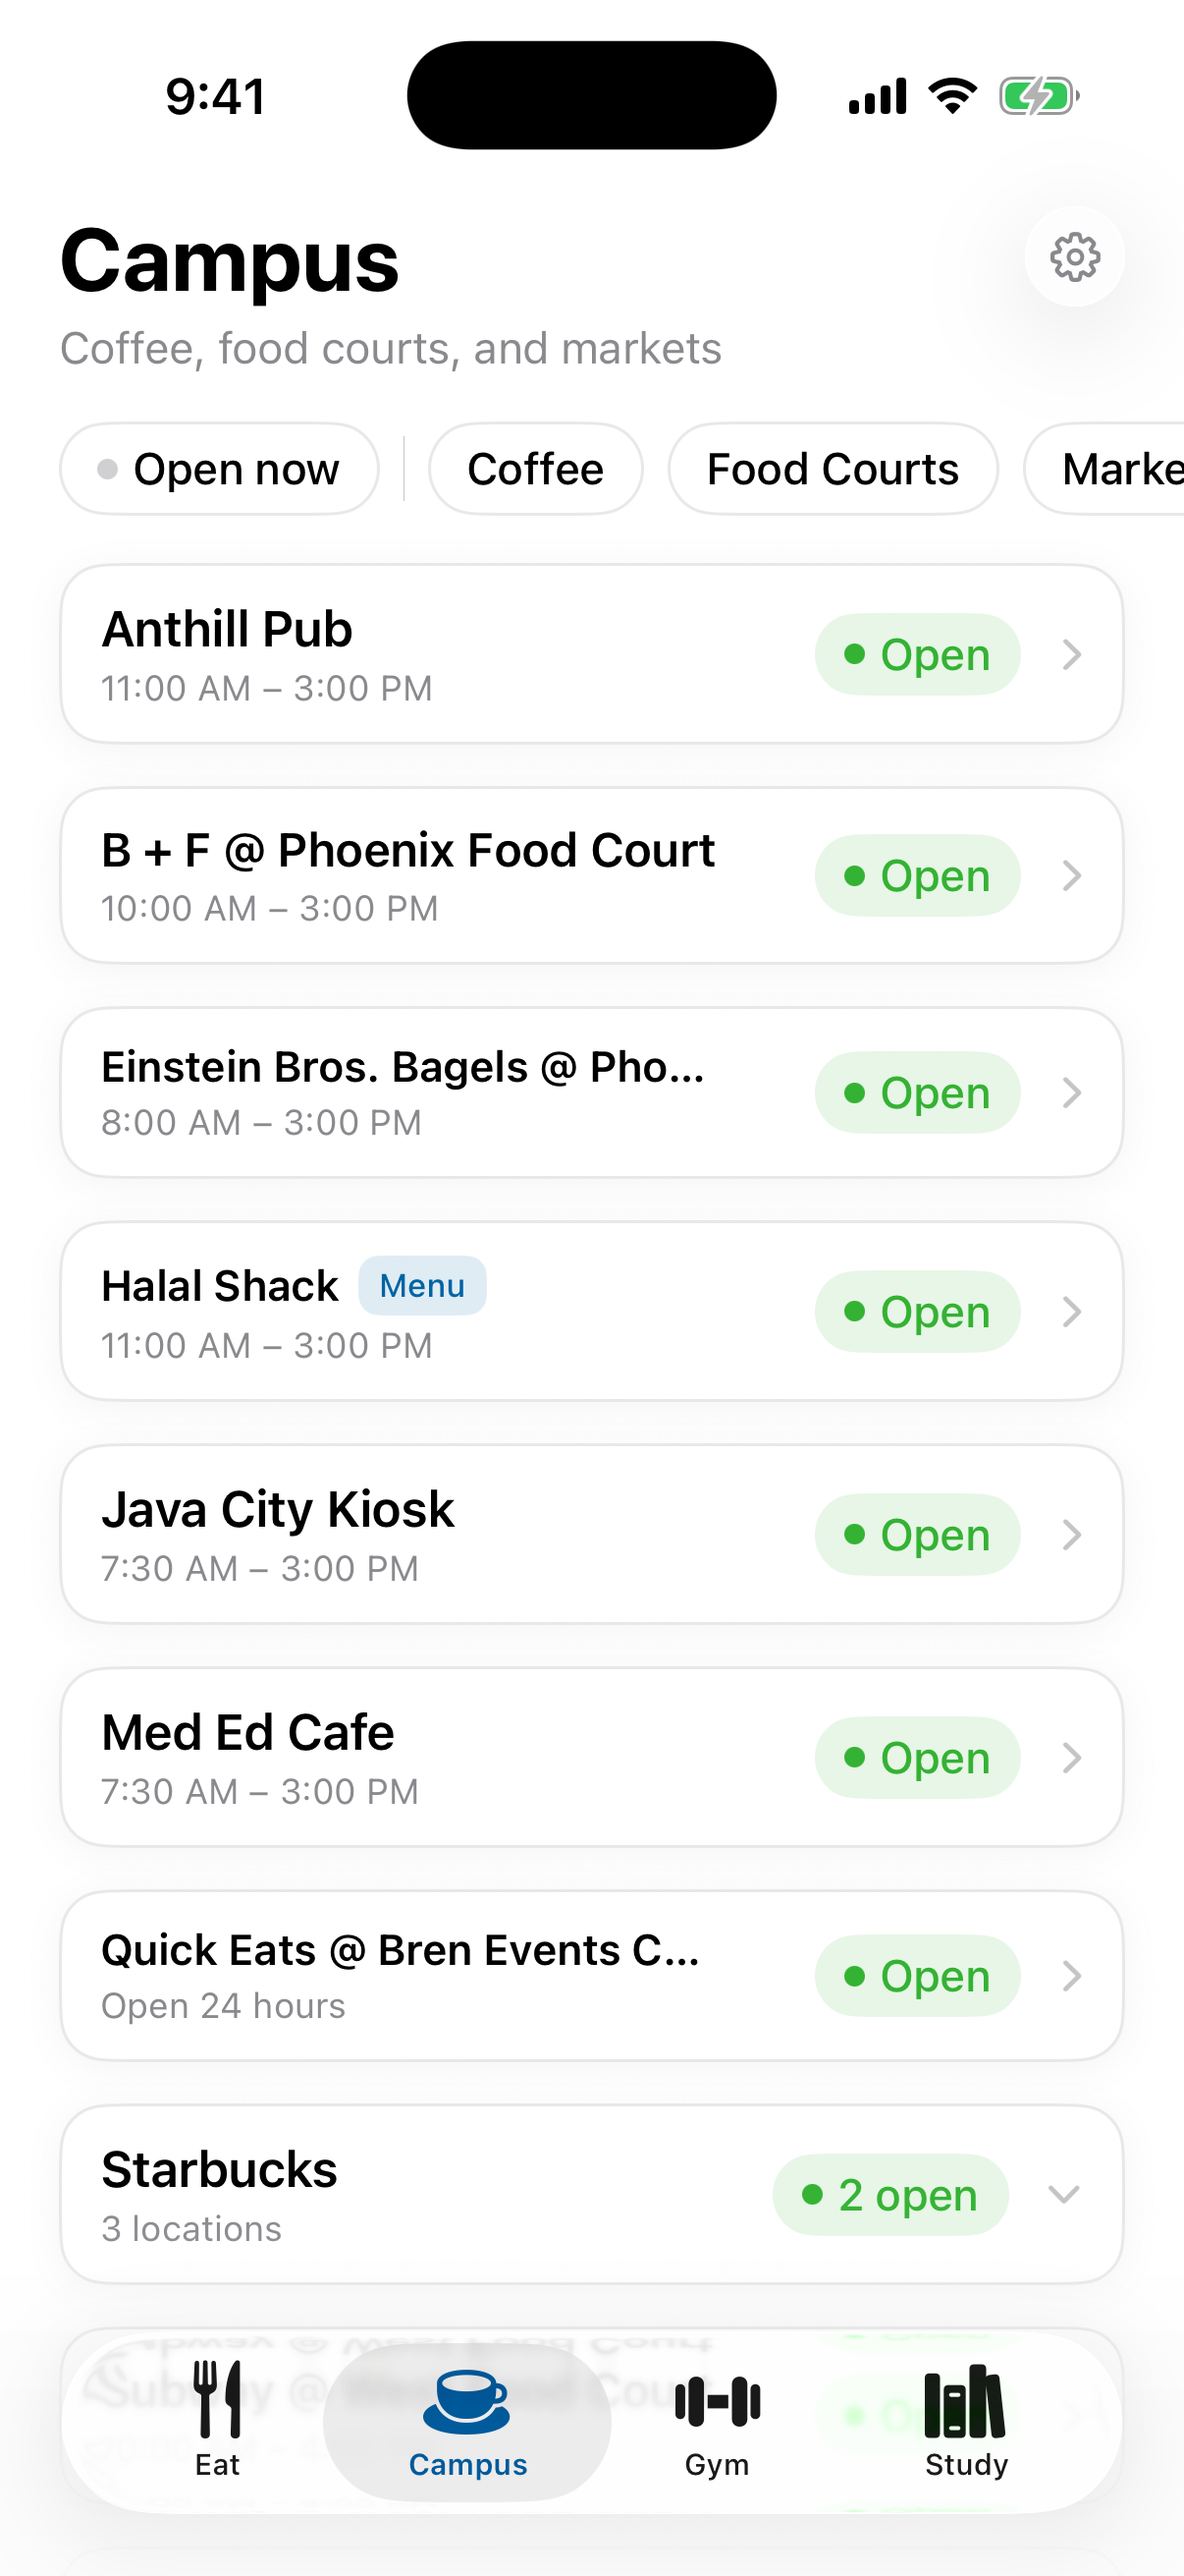
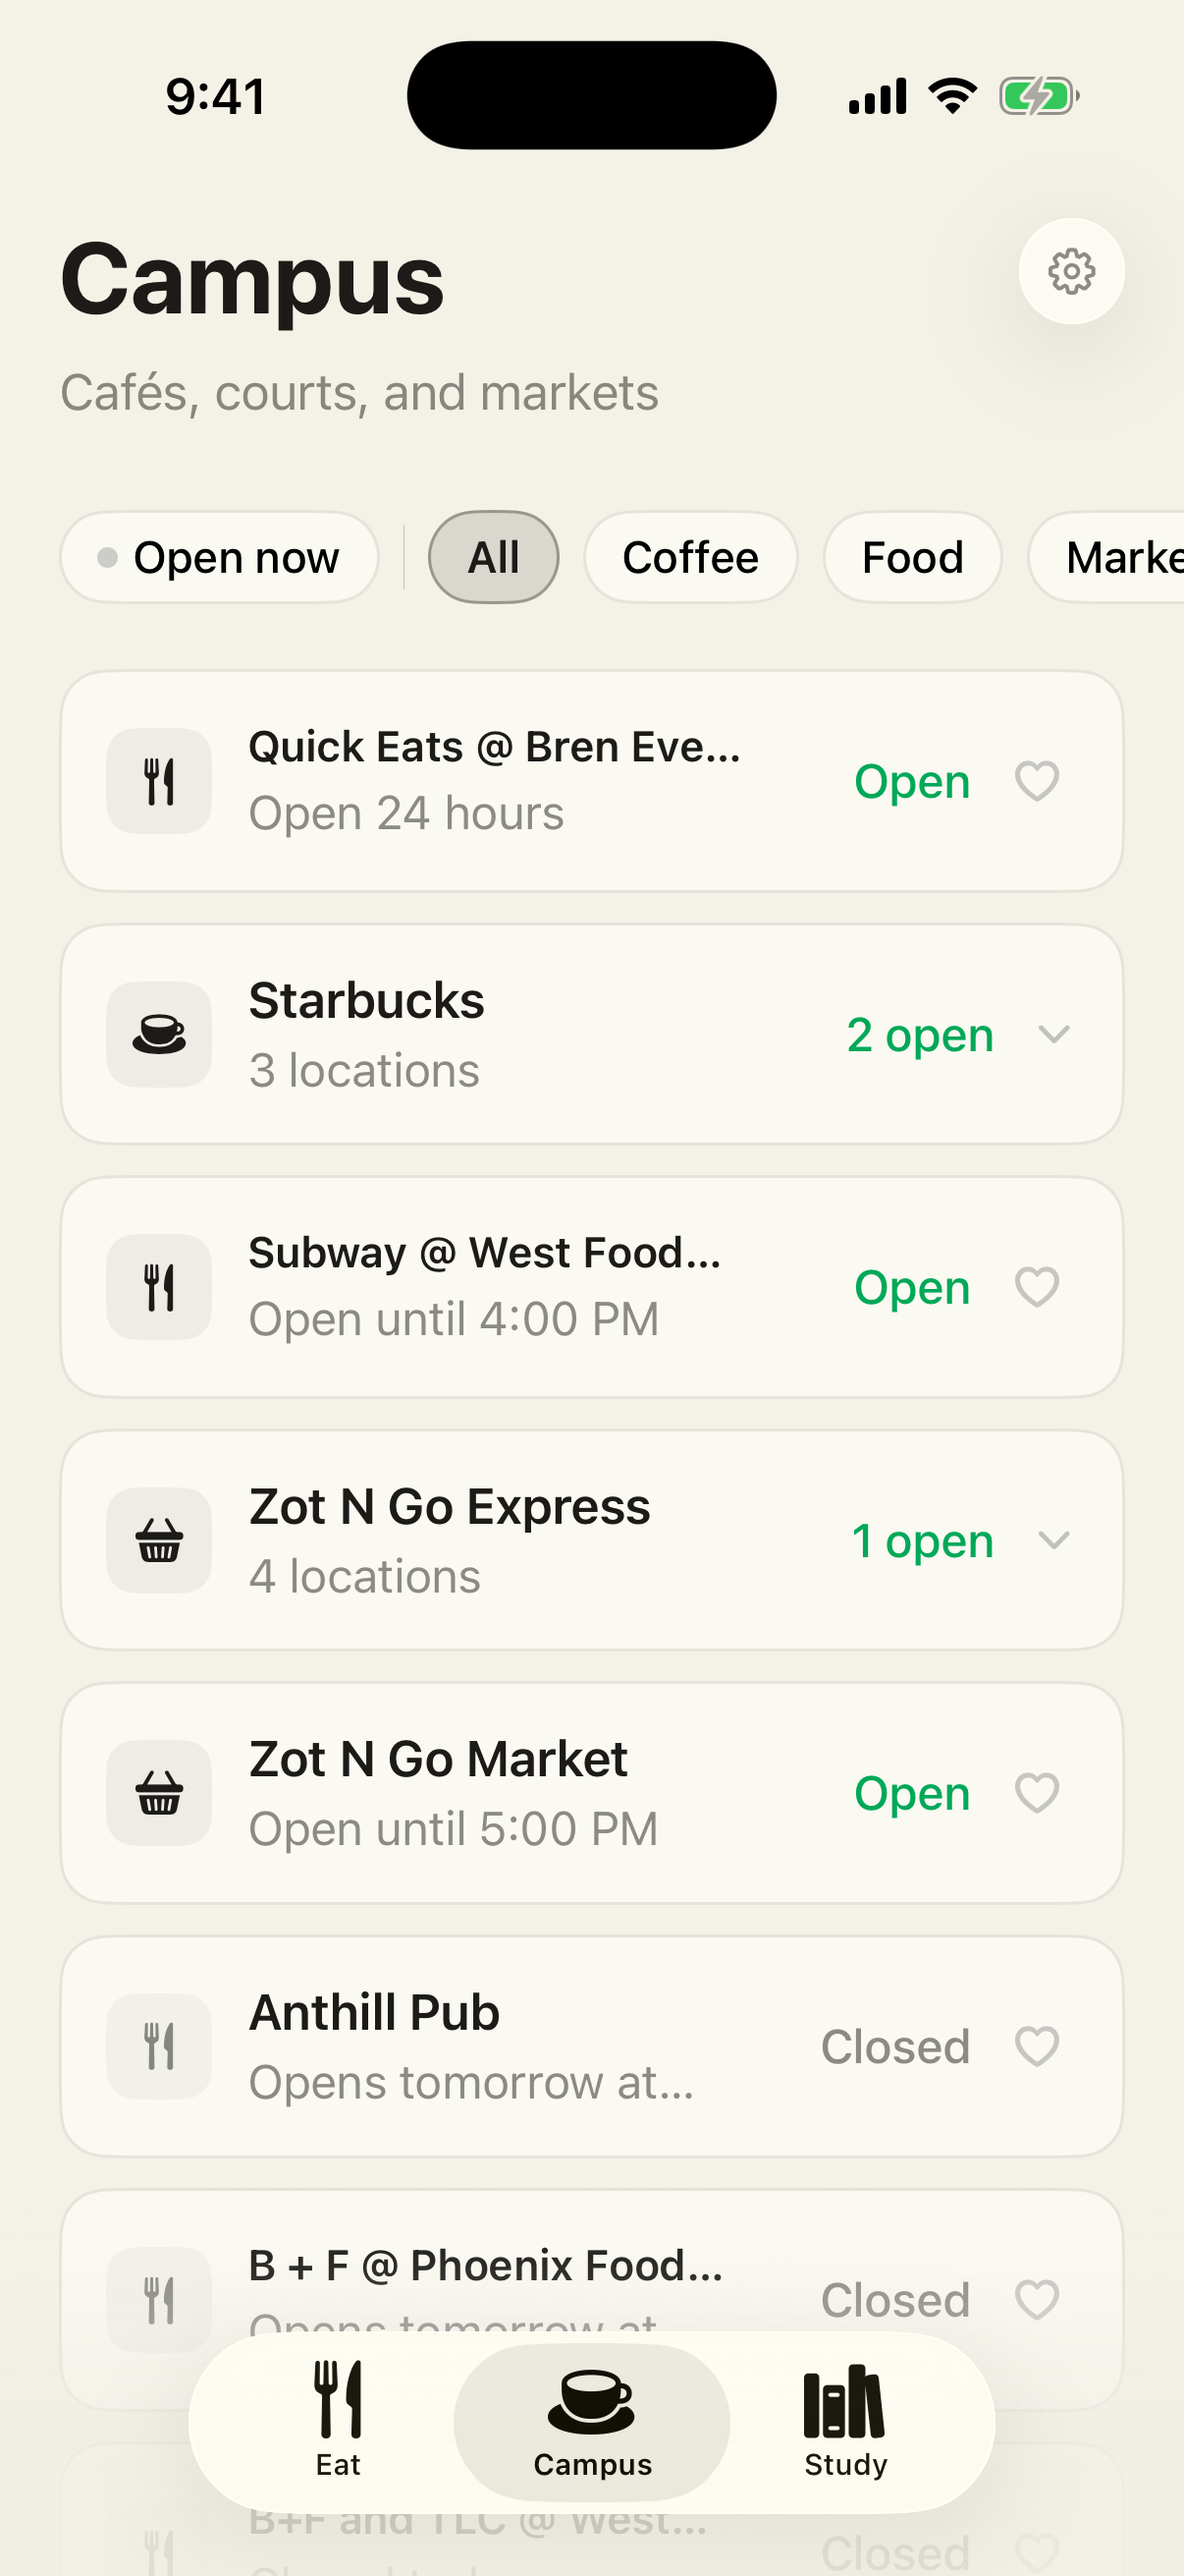
feat(apple): Commit Gym-free App Store listing screenshots [demo]
Replace the submit-path PNGs with current Eat 3-across / Oasis, Campus cards,
Study libraries, and real Settings switches. Drop old two-up plate and dish
shots so the next store train cannot upload Gym chrome. CI now hops Eat to a
hall that still has a board so dish and plate recapture can land.

diff --git a/apple/App/Dining/DiningView.swift b/apple/App/Dining/DiningView.swift
@@ -113,6 +113,7 @@ struct DiningView: View {
             syncPeriodSelection()
             considerAutoMealActivity()
             applyPendingDeepLinkIfNeeded()
+            applyScreenshotLaunchArgsIfNeeded()
         }
         .onChange(of: store.publishedDateRange) { syncDateSelection() }
         .onChange(of: selectedHall) {
@@ -1148,31 +1149,66 @@ struct DiningView: View {
         pendingDishName = nil
     }
 
-    /// CI helpers: open a labeled dish sheet and/or seed My Plate for screenshots.
+    /// CI helpers: hop off a closed/empty default hall so listing shots show a
+    /// live board, then open a labeled dish sheet and/or seed My Plate.
     private func applyScreenshotLaunchArgsIfNeeded() {
         guard !didApplyScreenshotArgs else { return }
         let args = ProcessInfo.processInfo.arguments
         let wantDish = args.contains("-showDishDetail")
         let wantPlate = args.contains("-showPlate")
-        guard wantDish || wantPlate else { return }
+        let preferLive = args.contains("-preferLiveHall") || wantDish || wantPlate
+        guard preferLive else { return }
 
-        guard case .loaded(let menu) = currentMenuState else { return }
-        let items = menu.stations.flatMap(\.items)
-        guard !items.isEmpty else { return }
+        if let items = screenshotBoardItems() {
+            didApplyScreenshotArgs = true
+            if wantPlate {
+                for item in items.prefix(3) where !plate.isOnPlate(item.name) {
+                    plate.toggle(item)
+                }
+                if !wantDish {
+                    showPlate = true
+                }
+            }
+            if wantDish {
+                selectedDish = items.first { $0.nutrition?.hasMacros == true } ?? items.first
+            }
+            return
+        }
+
+        guard let pick = screenshotLiveHallPick() else { return }
+        if pick.hall != selectedHall || pick.period != selectedPeriod {
+            selectedHall = pick.hall
+            selectedPeriod = pick.period
+            return
+        }
         didApplyScreenshotArgs = true
+    }
 
-        if wantPlate {
-            for item in items.prefix(3) where !plate.isOnPlate(item.name) {
-                plate.toggle(item)
-            }
-            if !wantDish {
-                showPlate = true
+    private func screenshotBoardItems() -> [MenuItem]? {
+        guard case .loaded(let menu) = currentMenuState else { return nil }
+        let items = menu.stations.flatMap(\.items)
+        return items.isEmpty ? nil : items
+    }
+
+    /// First hall+period with a warmed board, else the first hall still serving today.
+    private func screenshotLiveHallPick() -> (hall: String, period: String)? {
+        guard let locations = store.locations.value else { return nil }
+
+        for loc in locations where !loc.isComingSoon {
+            for period in loc.availablePeriods {
+                if case .loaded(let menu) = store.menuState(hall: loc.id, period: period),
+                   !menu.stations.flatMap(\.items).isEmpty {
+                    return (loc.id, period)
+                }
             }
         }
 
-        if wantDish {
-            selectedDish = items.first { $0.nutrition?.hasMacros == true } ?? items.first
+        guard let loc = locations.first(where: { !$0.isComingSoon && !$0.availablePeriods.isEmpty })
+        else { return nil }
+        let dinner = loc.availablePeriods.first {
+            $0.caseInsensitiveCompare("Dinner") == .orderedSame
         }
+        return (loc.id, dinner ?? loc.availablePeriods[0])
     }
 
     /// Keeps the period selection on a primary pill (Breakfast/Lunch/Dinner),

diff --git a/apple/AppStore/metadata.md b/apple/AppStore/metadata.md
@@ -30,7 +30,7 @@ These cannot be automated from CI without your Apple account / ASC console:
 2. **Signing** — Distribution certificate + App Store provisioning profile (or Ascendency CI secrets already wired).
 3. **Age rating / pricing** — one-time Free + age questionnaire if ASC rejects the API submit.
 4. **Privacy nutrition labels** — confirm “Data Not Collected” is **Published** in ASC and matches `privacy-policy.md` + in-app `PrivacyInfo.xcprivacy`. Merge this branch to `main` before App Store submit so the privacy URL serves the Anteats policy.
-5. **Screenshots** — verify 6.7" (and any required 6.5"/iPad) sets look current; CI clears and re-uploads from `metadata.json` `screenshot_files` (no Gym frames).
+5. **Screenshots** — verify 6.7" (and any required 6.5"/iPad) sets look current; CI clears and re-uploads from `metadata.json` `screenshot_files` (Gym-free Eat/Campus/Study/Settings only — no old two-up/Gym chrome).
 6. **External TestFlight** — first build of a marketing version still needs Apple Beta App Review before “Zot Eats Testers!” gets it.
 
 ## Gym

diff --git a/README.md b/README.md
@@ -35,7 +35,6 @@
 <p align="center">
   <img src="docs/screenshots/campus_menu.png" width="24%" alt="Menu sheet" />
   <img src="docs/screenshots/eat_dark.png" width="24%" alt="Dark mode" />
-  <img src="docs/screenshots/plate_light.png" width="24%" alt="My Plate" />
 </p>
 
 ## Data sources
